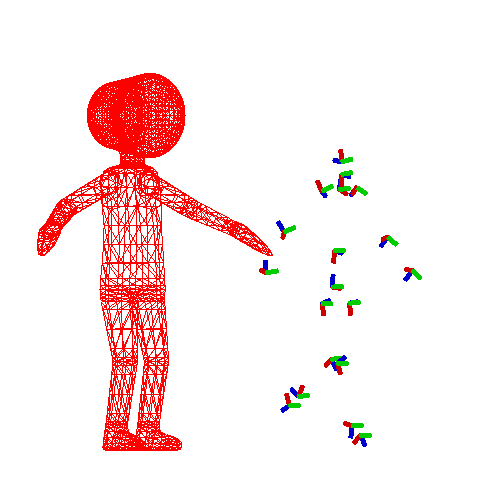
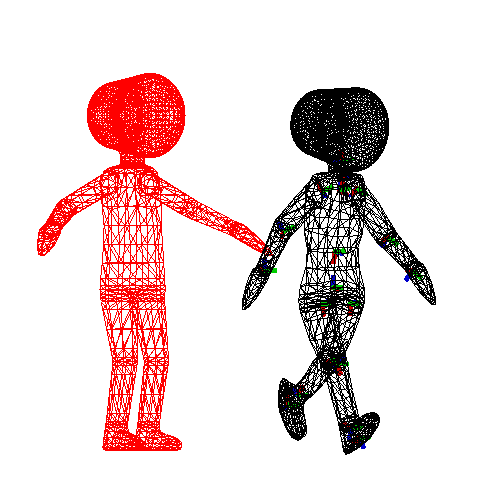
[task08] finish problem 3

Changed region(s): [[0.48, 0.15, 0.87, 0.93]]

diff --git a/task08/main.py b/task08/main.py
@@ -109,7 +109,8 @@ class HelloWorld(mglw.WindowConfig):
                 # hint: use np.matmul for matrix multiplication
                 # hint: assume that rig weights w add up to one
 
-                # p1 += ???
+                p12bone = np.matmul(inverseBindingMatrix, p0) * w
+                p1 += np.matmul(globalTransformation, p12bone)
 
             self.vtx2xyz_def[i_vtx] = p1[:3]  # from homogeneous coordinates to the Cartesian coordinates
 
